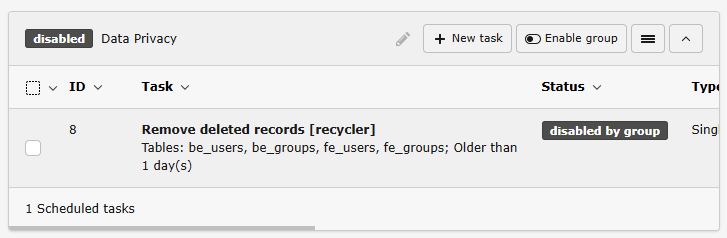
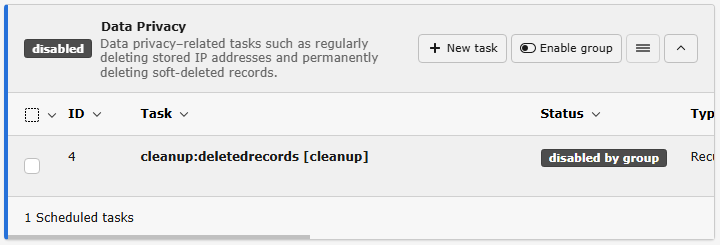
[DOCS] Document Improved Scheduler task group handling and display
See also: https://github.com/TYPO3-Documentation/Changelog-To-Doc/issues/1365

Related: https://review.typo3.org/c/Packages/TYPO3.CMS/+/91007
Resolves: #107754
Releases: main

Changed region(s): [[0.0, 0.0, 1.0, 1.0], [0.0917, 0.6176, 0.1222, 0.6471]]

diff --git a/Documentation/Administration/GroupTask/Index.rst b/Documentation/Administration/GroupTask/Index.rst
@@ -13,9 +13,29 @@ group similar tasks together:
 ..  figure:: /Images/GroupedTasks.png
     :alt: Screenshot of the TYPO3 backend module scheduler with buttons regarding groups highlighted
 
-    Use button :guilabel:`New group` to create a group.
+    Use button :guilabel:`New group` (1) to create a group, click on the title (2) to edit the group
 
-Unused groups are displayed at the bottom of the page
+You can sort and disable groups (3).
+
+Unused groups are displayed at the bottom of the page. Only unused groups can
+be deleted (4).
+
+When editing a group you can change its title and color.
+
+..  figure:: /Images/GroupEdit.png
+    :alt: Screenshot of the task group form
+
+Color options can be customized by manipulating the
+:php:`$GLOBAS['TCA']['tx_scheduler_task_group']['columns']['color']['config']['valuePicker']['items']`
+array in your TCA overrides file.
+
+..  code-block:: php
+    :caption: packages/my-sitepackage/Configuration/Overrides/tx_scheduler_task_group.php
+
+    $GLOBALS['TCA']['tx_scheduler_task_group']['columns']['color']['config']['valuePicker']['items'][] = [
+        'label' => 'My Color',
+        'value' => '#ABCDEF'
+    ];
 
 ..  _grouping-tasks-edit:
 
@@ -25,7 +45,7 @@ Editing task groups
 Scheduler task groups can be created, edited and deleted from the module
 :guilabel:`System > Scheduler`.
 
-Technically the are records stored on the root page (pid=0). They can also be
+Technically they are records stored on the root page (pid=0). They can also be
 created, edited and sorted with module :guilabel:`Web > List`.
 
 It is also possible to create a new task group from within the edit task form by
